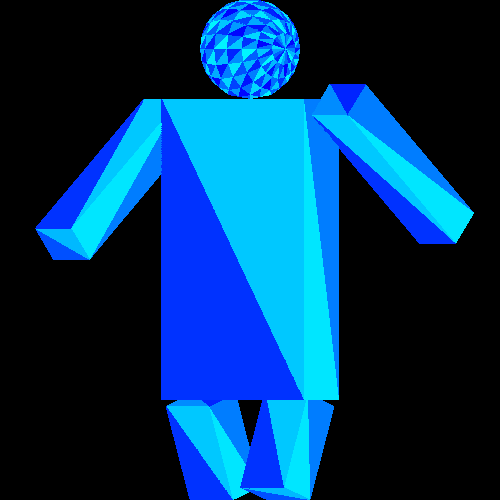
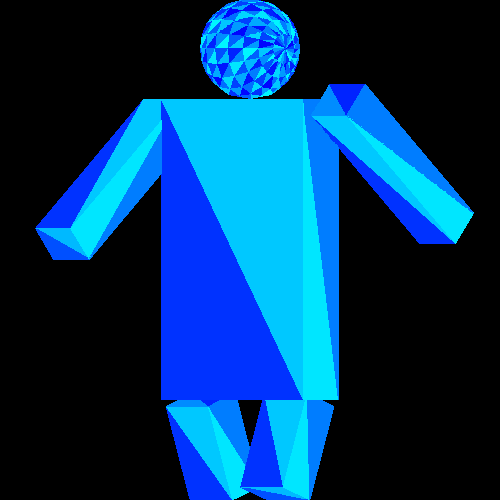
did that change anything?

diff --git a/display.c b/display.c
@@ -78,7 +78,7 @@ jdyrlandweaver
 ====================*/
 void plot( screen s, color c, int x, int y, int z, struct matrix *zbuf) {
   int newy = YRES - 1 - y;
-  if ( x >= 0 && x < XRES && newy >=0 && newy < YRES && z > zbuf->m[x][newy]){
+  if ( x >= 0 && x < XRES && newy >=0 && newy < YRES && z >= zbuf->m[x][newy]){
     s[x][newy] = c;
     zbuf->m[x][newy]=z;
   }
